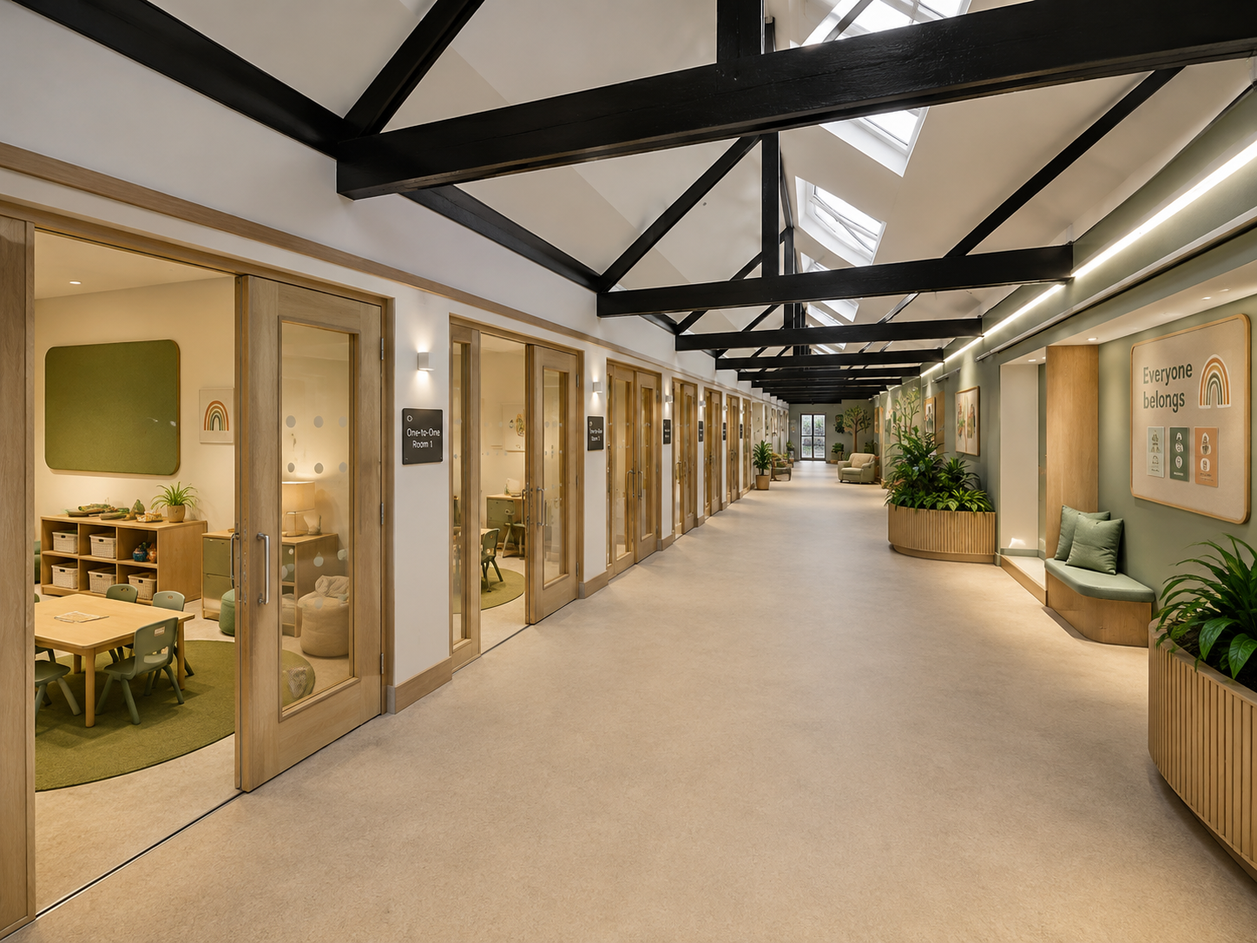
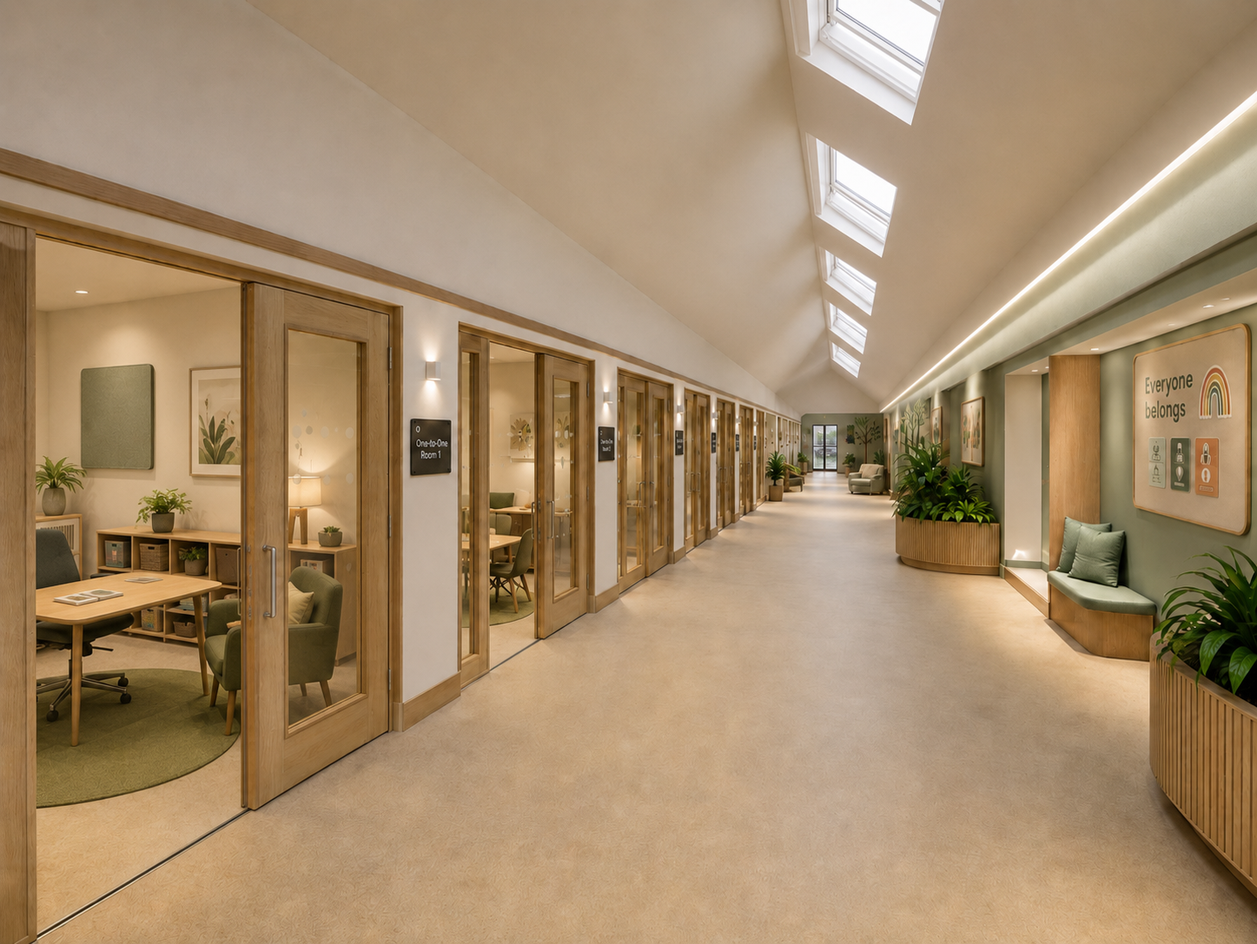
updates

diff --git a/properties/thorntonheath.html b/properties/thorntonheath.html
@@ -3,7 +3,7 @@
 <head>
     <meta charset="UTF-8">
     <meta name="viewport" content="width=device-width, initial-scale=1.0">
-    <title>21-29 Sandringham Road, Thornton Heath - Maypole SEN School Concept</title>
+    <title>21-29 Sandringham Road, Thornton Heath CR7 7AX - Maypole SEN School Concept</title>
     <link rel="icon" type="image/png" href="/favicon/curwenfavicon.png">
     <script src="https://cdn.tailwindcss.com"></script>
     <script src="https://unpkg.com/lucide@latest"></script>
@@ -61,13 +61,12 @@
             <div class="flex items-center space-x-4">
                 <img src="https://cdn.anthology.to/static/retailers/alt/curwen_group.png" class="h-8 md:h-10 w-auto" alt="Curwen Group" />
                 <div class="hidden md:block h-6 w-[1px] bg-neutral-200"></div>
-                <span class="hidden md:block text-[10px] tracking-[0.3em] uppercase font-bold text-slate-900">21-29 Sandringham Road, Thornton Heath</span>
+                <span class="hidden md:block text-[10px] tracking-[0.3em] uppercase font-bold text-slate-900">21-29 Sandringham Road, Thornton Heath CR7 7AX</span>
             </div>
 
             <div class="hidden xl:flex items-center space-x-6">
                 <button onclick="scrollToSection('hero')" class="text-[9px] uppercase tracking-[0.2em] font-bold text-slate-400 hover:text-[#B08D57] transition-colors">Home</button>
                 <button onclick="scrollToSection('opportunity')" class="text-[9px] uppercase tracking-[0.2em] font-bold text-slate-400 hover:text-[#B08D57] transition-colors">Summary</button>
-                <button onclick="scrollToSection('facts')" class="text-[9px] uppercase tracking-[0.2em] font-bold text-slate-400 hover:text-[#B08D57] transition-colors">Facts</button>
                 <button onclick="scrollToSection('location')" class="text-[9px] uppercase tracking-[0.2em] font-bold text-slate-400 hover:text-[#B08D57] transition-colors">Location</button>
                 <button onclick="scrollToSection('classrooms')" class="text-[9px] uppercase tracking-[0.2em] font-bold text-slate-400 hover:text-[#B08D57] transition-colors">1:1 Rooms</button>
                 <button onclick="scrollToSection('plans')" class="text-[9px] uppercase tracking-[0.2em] font-bold text-slate-400 hover:text-[#B08D57] transition-colors">Plans</button>
@@ -87,7 +86,6 @@
         <div id="mobile-menu" class="hidden fixed inset-0 z-[90] bg-[#0A1D37] text-white p-12 flex flex-col justify-center space-y-7">
             <button onclick="scrollToSection('hero')" class="text-2xl font-light tracking-widest text-left">Home</button>
             <button onclick="scrollToSection('opportunity')" class="text-2xl font-light tracking-widest text-left">Summary</button>
-            <button onclick="scrollToSection('facts')" class="text-2xl font-light tracking-widest text-left">Facts</button>
             <button onclick="scrollToSection('location')" class="text-2xl font-light tracking-widest text-left">Location</button>
             <button onclick="scrollToSection('classrooms')" class="text-2xl font-light tracking-widest text-left">1:1 Rooms</button>
             <button onclick="scrollToSection('plans')" class="text-2xl font-light tracking-widest text-left">Plans</button>
@@ -110,19 +108,19 @@
                         <p class="text-white text-[10px] md:text-[11px] tracking-[0.2em] font-bold uppercase mb-4">1:1 Specialist Education Model</p>
                         <div class="w-full h-[1.5px] bg-white/30 mb-4"></div>
                         <p class="text-white text-[10px] md:text-[11px] tracking-[0.15em] font-semibold uppercase leading-relaxed">
-                            Low-mix pupil movement<br/>secure staggered arrival strategy
+                            secure staggered arrival strategy
                         </p>
                     </div>
                 </div>
 
                 <div class="thornton-hero-copy relative md:absolute md:bottom-20 md:left-20 max-w-5xl px-6 pt-10 pb-10 md:px-0 md:pt-0 md:pb-0">
                     <div class="reveal">
-                        <p class="inline-block bg-[#0A1D37]/85 border border-white/20 text-[#B08D57] text-[10px] sm:text-[12px] md:text-sm tracking-[0.24em] sm:tracking-[0.45em] uppercase font-bold mb-4 px-4 py-2 rounded-sm shadow-lg backdrop-blur-sm">21-29 Sandringham Road, Thornton Heath</p>
+                        <p class="inline-block bg-[#0A1D37]/85 border border-white/20 text-[#B08D57] text-[10px] sm:text-[12px] md:text-sm tracking-[0.24em] sm:tracking-[0.45em] uppercase font-bold mb-4 px-4 py-2 rounded-sm shadow-lg backdrop-blur-sm">21-29 Sandringham Road, Thornton Heath CR7 7AX</p>
                         <h1 class="text-4xl md:text-7xl xl:text-8xl font-extralight text-white leading-none tracking-tighter uppercase mb-5 md:mb-6">
-                            21-29<br/>Sandringham Road
+                            21-29<br/>Sandringham Road<br/><span class="text-2xl md:text-4xl xl:text-5xl tracking-normal">CR7 7AX</span>
                         </h1>
                         <p class="text-white/70 text-sm md:text-lg font-light max-w-3xl mb-6 md:mb-8">
-                            A quiet concept pack showing how the building can support Maypole's one-to-one SEN model, with 25-30 potential 1:1 teaching rooms, controlled pupil movement and a secure staggered drop-off strategy.
+                            This report shows how the building can support Maypole's one-to-one SEN model, with upwards of 30 potential 1:1 teaching rooms, controlled pupil movement and a secure staggered drop-off strategy.
                         </p>
 
                         <div class="grid grid-cols-2 md:grid-cols-4 gap-2 sm:gap-3 max-w-5xl mb-6 md:mb-8">
@@ -131,11 +129,11 @@
                                 <p class="text-[8px] sm:text-[9px] uppercase tracking-[0.16em] sm:tracking-[0.25em] text-white/45 font-bold mt-1">Sq Ft GIA</p>
                             </div>
                             <div class="bg-[#0A1D37]/80 border border-white/10 backdrop-blur-md rounded-sm px-3 py-3 sm:px-6 sm:py-5">
-                                <p class="text-xl sm:text-2xl font-bold text-white">Freehold</p>
+                                <p class="text-xl sm:text-2xl font-bold text-white">Freehold / Leasehold</p>
                                 <p class="text-[8px] sm:text-[9px] uppercase tracking-[0.16em] sm:tracking-[0.25em] text-white/45 font-bold mt-1">Interest</p>
                             </div>
                             <div class="bg-[#0A1D37]/80 border border-white/10 backdrop-blur-md rounded-sm px-3 py-3 sm:px-6 sm:py-5">
-                                <p class="text-xl sm:text-2xl font-bold text-white">25-30</p>
+                                <p class="text-xl sm:text-2xl font-bold text-white">30+</p>
                                 <p class="text-[8px] sm:text-[9px] uppercase tracking-[0.16em] sm:tracking-[0.25em] text-white/45 font-bold mt-1">1:1 Rooms</p>
                             </div>
                             <div class="bg-[#0A1D37]/80 border border-white/10 backdrop-blur-md rounded-sm px-3 py-3 sm:px-6 sm:py-5">
@@ -155,14 +153,14 @@
                         <div class="reveal">
                             <h2 class="text-[#B08D57] text-[10px] tracking-[0.4em] uppercase font-bold mb-10">01 &mdash; Maypole Concept Summary</h2>
                             <h3 class="text-3xl md:text-5xl font-light text-slate-900 leading-tight mb-8">
-                                A building strategy shaped around one-to-one teaching, low pupil mixing and calm arrival.
+                                A building strategy shaped around one-to-one teaching, with versitile accomodation to provide a modern, comfortable and secure environment.
                             </h3>
                             <div class="space-y-6 text-slate-600 font-light leading-relaxed text-lg">
                                 <p>
-                                    It is intended to show how 21-29 Sandringham Road could be planned around a specialist one-to-one SEN model where pupils have individual teaching spaces and limited mixing with other pupils.
+                                    It is intended to show how 21-29 Sandringham Road, Thornton Heath CR7 7AX could be planned around a specialist one-to-one SEN model where pupils have individual teaching spaces and controlled mixing with other pupils.
                                 </p>
                                 <p>
-                                    The core design idea is simple: use the scale of the former bakery building to create a controlled, carefully managed education environment with 25-30 potential one-to-one classrooms, supporting therapy / staff spaces and a secure arrival sequence.
+                                    The core design idea is simple: use the scale of the former bakery building to create a controlled, carefully managed education environment with 30 + potential 1:1 classrooms, supporting therapy / staff spaces and a secure arrival sequence.
                                 </p>
 
                                 <div class="grid grid-cols-1 sm:grid-cols-3 gap-4 pt-4">
@@ -171,8 +169,8 @@
                                         <p class="text-[9px] uppercase tracking-widest text-slate-400 font-bold">Teaching Model</p>
                                     </div>
                                     <div class="bg-white border border-neutral-100 shadow-sm p-6 rounded-sm">
-                                        <p class="text-3xl font-light text-slate-900 mb-2">25-30</p>
-                                        <p class="text-[9px] uppercase tracking-widest text-slate-400 font-bold">Potential Classrooms</p>
+                                        <p class="text-3xl font-light text-slate-900 mb-2">30 +</p>
+                                        <p class="text-[9px] uppercase tracking-widest text-slate-400 font-bold">Potential 1:1 Classrooms</p>
                                     </div>
                                     <div class="bg-white border border-neutral-100 shadow-sm p-6 rounded-sm">
                                         <p class="text-3xl font-light text-slate-900 mb-2">F1</p>
@@ -190,12 +188,12 @@
                                 <div class="overflow-x-auto">
                                     <table class="w-full text-sm text-left border-collapse">
                                         <tbody class="text-slate-800">
-                                            <tr class="border-b border-neutral-100"><td class="py-4 text-[9px] uppercase tracking-widest text-slate-400 font-bold">Address</td><td class="py-4 text-sm font-bold text-slate-900">21-29 Sandringham Road, Thornton Heath</td></tr>
+                                            <tr class="border-b border-neutral-100"><td class="py-4 text-[9px] uppercase tracking-widest text-slate-400 font-bold">Address</td><td class="py-4 text-sm font-bold text-slate-900">21-29 Sandringham Road, Thornton Heath CR7 7AX</td></tr>
                                             <tr class="border-b border-neutral-100"><td class="py-4 text-[9px] uppercase tracking-widest text-slate-400 font-bold">Area</td><td class="py-4 text-sm font-bold text-slate-900">1,893.55 sq m / 20,382 sq ft GIA</td></tr>
                                             <tr class="border-b border-neutral-100"><td class="py-4 text-[9px] uppercase tracking-widest text-slate-400 font-bold">Maypole Model</td><td class="py-4 text-sm font-bold text-slate-900">One pupil / one teacher classrooms</td></tr>
                                             <tr class="border-b border-neutral-100"><td class="py-4 text-[9px] uppercase tracking-widest text-slate-400 font-bold">Pupil Movement</td><td class="py-4 text-sm font-bold text-slate-900">Low-mix, controlled transitions</td></tr>
                                             <tr class="border-b border-neutral-100"><td class="py-4 text-[9px] uppercase tracking-widest text-slate-400 font-bold">Arrival</td><td class="py-4 text-sm font-bold text-slate-900">Secure staggered drop-off concept</td></tr>
-                                            <tr><td class="py-4 text-[9px] uppercase tracking-widest text-slate-400 font-bold">Planning Route</td><td class="py-4 text-sm font-bold text-slate-900">F1 school use to be delivered</td></tr>
+                                            <tr><td class="py-4 text-[9px] uppercase tracking-widest text-slate-400 font-bold">Planning Route</td><td class="py-4 text-sm font-bold text-slate-900">F1 school use to be delivered along </td></tr>
                                         </tbody>
                                     </table>
                                 </div>
@@ -205,55 +203,16 @@
                 </div>
             </section>
 
-            <!-- SECTION: Building Facts -->
-            <section id="facts" class="bg-[#0A1D37] py-24 px-6 md:px-20 text-white overflow-hidden">
-                <div class="max-w-7xl mx-auto grid grid-cols-1 lg:grid-cols-2 gap-20 items-center">
-                    <div class="reveal">
-                        <h2 class="text-[#B08D57] text-[10px] tracking-[0.4em] uppercase font-bold mb-10">02 &mdash; Key Building Facts</h2>
-                        <h3 class="text-3xl md:text-5xl font-light mb-10 leading-tight">The principal building and school-planning facts in one place.</h3>
-                        <p class="text-white/60 font-light leading-relaxed text-lg mb-10">
-                            The asset is being controlled through Curwen Group's relationship with the appointed agent, allowing the design and planning conversation to be managed privately around a clear F1 school strategy for Maypole.
-                        </p>
-                        <div class="grid grid-cols-1 sm:grid-cols-2 gap-8">
-                            <div class="border-l border-[#B08D57] pl-6 py-2"><p class="text-[9px] uppercase tracking-widest text-[#B08D57] font-bold mb-2">Address</p><p class="text-xl font-light">21-29 Sandringham Road</p></div>
-                            <div class="border-l border-[#B08D57] pl-6 py-2"><p class="text-[9px] uppercase tracking-widest text-[#B08D57] font-bold mb-2">Local Authority</p><p class="text-xl font-light">Croydon</p></div>
-                            <div class="border-l border-[#B08D57] pl-6 py-2"><p class="text-[9px] uppercase tracking-widest text-[#B08D57] font-bold mb-2">Gross Internal Area</p><p class="text-xl font-light">20,382 sq ft</p></div>
-                            <div class="border-l border-[#B08D57] pl-6 py-2"><p class="text-[9px] uppercase tracking-widest text-[#B08D57] font-bold mb-2">Metric Area</p><p class="text-xl font-light">1,893.55 sq m</p></div>
-                            <div class="border-l border-[#B08D57] pl-6 py-2"><p class="text-[9px] uppercase tracking-widest text-[#B08D57] font-bold mb-2">Tenure</p><p class="text-xl font-light">Freehold</p></div>
-                            <div class="border-l border-[#B08D57] pl-6 py-2"><p class="text-[9px] uppercase tracking-widest text-[#B08D57] font-bold mb-2">Planning Strategy</p><p class="text-xl font-light">F1 school use</p></div>
-                        </div>
-                    </div>
-
-                    <div class="reveal delay-200 space-y-6">
-                        <figure class="bg-white/5 border border-white/10 rounded-sm overflow-hidden shadow-2xl">
-                            <img src="../images/thornton/ExistingFront.jpeg" class="w-full h-auto object-cover" alt="Existing Thornton Heath front elevation" />
-                            <figcaption class="px-6 py-4 text-[10px] uppercase tracking-widest text-white/35 font-bold">Existing front elevation for Thornton Heath.</figcaption>
-                        </figure>
-                        <figure class="bg-white/5 border border-white/10 rounded-sm overflow-hidden shadow-2xl">
-                            <img src="../images/thornton/FrontCGI.png" class="w-full h-auto object-cover" alt="Proposed Thornton Heath SEN school frontage CGI" />
-                            <figcaption class="px-6 py-4 text-[10px] uppercase tracking-widest text-white/35 font-bold">Proposed front CGI showing the SEN school arrival presentation.</figcaption>
-                        </figure>
-                    </div>
-                </div>
-
-                <div class="reveal mt-16 max-w-7xl mx-auto bg-white/5 border border-white/10 rounded-sm p-8">
-                    <p class="text-[10px] uppercase tracking-[0.35em] font-bold text-[#B08D57] mb-4">Area note</p>
-                    <p class="text-sm font-light text-white/55 leading-relaxed">
-                        Source particulars refer to approximately 20,100 sq ft over ground and first floors in the featured points, and approximately 1,893.55 sq m / 20,382 sq ft GIA in the main description. This brochure uses the more precise GIA figure and keeps the focus on the proposed F1 school planning route.
-                    </p>
-                </div>
-            </section>
-
             <!-- SECTION: Location -->
             <section id="location" class="py-24 px-6 md:px-20 max-w-7xl mx-auto">
                 <div class="grid grid-cols-1 lg:grid-cols-12 gap-16 items-center">
                     <div class="lg:col-span-5">
                         <div class="reveal">
-                            <h2 class="text-[#B08D57] text-[10px] tracking-[0.4em] uppercase font-bold mb-10">03 &mdash; Location</h2>
+                            <h2 class="text-[#B08D57] text-[10px] tracking-[0.4em] uppercase font-bold mb-10">02 &mdash; Location</h2>
                             <h3 class="text-3xl md:text-5xl font-light text-slate-900 leading-tight mb-8">An accessible South London location close to amenities, homes and transport infrastructure.</h3>
                             <div class="space-y-6 text-slate-600 font-light leading-relaxed text-lg">
                                 <p>
-                                    Situated on Sandringham Road, the property occupies a convenient Thornton Heath position within easy reach of the area's established local catchment. Thornton Heath town centre is close by, providing day-to-day amenities, shops, cafes and services.
+                                    Situated at 21-29 Sandringham Road, Thornton Heath CR7 7AX, the property occupies a convenient position within easy reach of the area's established local catchment. Thornton Heath town centre is close by, providing day-to-day amenities, shops, cafes and services.
                                 </p>
                                 <p>
                                     The location benefits from regular rail services from Thornton Heath station into Central London and Croydon, with Selhurst station also within approximately 1 km. Nearby bus routes connect Thornton Heath with Croydon, Norbury, Streatham and the wider surrounding area.
@@ -285,8 +244,8 @@
                                 <p class="text-slate-500 font-light leading-relaxed">Road access extends towards Croydon town centre, the A23 London-Brighton Road and the wider South London network.</p>
                             </article>
                             <figure class="sm:col-span-2 bg-white border border-neutral-100 rounded-sm overflow-hidden shadow-sm">
-                                <img src="../images/thornton/LocationMap.jpeg" class="w-full h-auto object-contain bg-white" alt="Location map for 21-29 Sandringham Road, Thornton Heath" />
-                                <figcaption class="px-6 py-4 text-[10px] uppercase tracking-widest text-slate-400 font-bold">Location map: 21-29 Sandringham Road, Thornton Heath.</figcaption>
+                                <img src="../images/thornton/LocationMap.jpeg" class="w-full h-auto object-contain bg-white" alt="Location map for 21-29 Sandringham Road, Thornton Heath CR7 7AX" />
+                                <figcaption class="px-6 py-4 text-[10px] uppercase tracking-widest text-slate-400 font-bold">Location map: 21-29 Sandringham Road, Thornton Heath CR7 7AX.</figcaption>
                             </figure>
                         </div>
                     </div>
@@ -297,18 +256,18 @@
             <section id="classrooms" class="dark-gradient py-24 px-6 md:px-20 text-white overflow-hidden">
                 <div class="max-w-7xl mx-auto grid grid-cols-1 lg:grid-cols-2 gap-20 items-center">
                     <div class="reveal">
-                        <h2 class="text-[#B08D57] text-[10px] tracking-[0.4em] uppercase font-bold mb-10">04 &mdash; One-to-One Classroom Model</h2>
+                        <h2 class="text-[#B08D57] text-[10px] tracking-[0.4em] uppercase font-bold mb-10">03 &mdash; One-to-One Classroom Model</h2>
                         <h3 class="text-3xl md:text-5xl font-light mb-10 leading-tight">A room strategy for pupils who need individual space and minimal peer mixing.</h3>
                         <div class="space-y-6 text-white/60 font-light leading-relaxed text-lg">
                             <p>
-                                Maypole's model requires a different type of school environment from a conventional classroom-led setting. The building can be reviewed around 25-30 one-to-one teaching rooms, each supporting one pupil and one teacher in a calm, predictable space.
+                                Maypole's model requires a different type of school environment from a conventional classroom-led setting. The building can be reviewed around 30 + potential 1:1 classrooms, each supporting one pupil and one teacher in a calm, predictable space.
                             </p>
                             <p>
                                 The wider floorplate allows teaching rooms to sit alongside therapy, decompression, staff, welfare and support spaces, reducing the need for pupils to mix or move through busy shared areas during the day.
                             </p>
                         </div>
                         <div class="grid grid-cols-1 sm:grid-cols-2 gap-5 mt-10">
-                            <div class="border-l border-[#B08D57] pl-6 py-2"><p class="text-[9px] uppercase tracking-widest text-[#B08D57] font-bold mb-2">Classroom Count</p><p class="text-lg font-light">25-30 potential one-to-one rooms</p></div>
+                            <div class="border-l border-[#B08D57] pl-6 py-2"><p class="text-[9px] uppercase tracking-widest text-[#B08D57] font-bold mb-2">Classroom Count</p><p class="text-lg font-light">30 + potential 1:1 classrooms</p></div>
                             <div class="border-l border-[#B08D57] pl-6 py-2"><p class="text-[9px] uppercase tracking-widest text-[#B08D57] font-bold mb-2">Pupil Model</p><p class="text-lg font-light">One pupil, one teacher, low-mix operation</p></div>
                             <div class="border-l border-[#B08D57] pl-6 py-2"><p class="text-[9px] uppercase tracking-widest text-[#B08D57] font-bold mb-2">First Floor Windows</p><p class="text-lg font-light">Front elevation supports multiple naturally lit rooms</p></div>
                             <div class="border-l border-[#B08D57] pl-6 py-2"><p class="text-[9px] uppercase tracking-widest text-[#B08D57] font-bold mb-2">Support Rooms</p><p class="text-lg font-light">Therapy, calm, staff and meeting spaces</p></div>
@@ -332,7 +291,7 @@
             <section id="plans" class="bg-[#FAF9F6] py-24 px-6 md:px-20 border-y border-neutral-100">
                 <div class="max-w-7xl mx-auto">
                     <div class="reveal text-center mb-14">
-                        <h2 class="text-[#B08D57] text-[10px] tracking-[0.4em] uppercase font-bold mb-6">05 &mdash; Conceptual Floor Plans</h2>
+                        <h2 class="text-[#B08D57] text-[10px] tracking-[0.4em] uppercase font-bold mb-6">04 &mdash; Conceptual Floor Plans</h2>
                         <h3 class="text-3xl md:text-5xl font-light text-slate-900 leading-tight mb-4">An initial test fit showing how the building could be arranged around Maypole's one-to-one model.</h3>
                         <p class="text-slate-500 font-light text-lg max-w-4xl mx-auto leading-relaxed">
                             These plans are conceptual only at this stage. They are included to show one possible approach and would be developed in accordance with Maypole's operational, safeguarding and education requirements.
@@ -398,7 +357,7 @@
 
                     <div class="lg:col-span-5">
                         <div class="reveal delay-200">
-                            <h2 class="text-[#B08D57] text-[10px] tracking-[0.4em] uppercase font-bold mb-10">06 &mdash; Secure Staggered Drop-Off</h2>
+                            <h2 class="text-[#B08D57] text-[10px] tracking-[0.4em] uppercase font-bold mb-10">05 &mdash; Secure Staggered Drop-Off</h2>
                             <h3 class="text-3xl md:text-5xl font-light text-slate-900 leading-tight mb-8">
                                 A controlled arrival sequence designed around privacy, safeguarding and reduced anxiety.
                             </h3>
@@ -426,7 +385,7 @@
             <section id="conversion" class="bg-white py-24 px-6 md:px-20 border-y border-neutral-100">
                 <div class="max-w-7xl mx-auto">
                     <div class="reveal text-center mb-16">
-                        <h2 class="text-[#B08D57] text-[10px] tracking-[0.4em] uppercase font-bold mb-6">07 &mdash; Supporting Education Spaces</h2>
+                        <h2 class="text-[#B08D57] text-[10px] tracking-[0.4em] uppercase font-bold mb-6">06 &mdash; Supporting Education Spaces</h2>
                         <h3 class="text-3xl md:text-5xl font-light text-slate-900 leading-tight mb-4">CGI views showing how the building could feel as a specialist school.</h3>
                         <p class="text-slate-500 font-light text-lg max-w-4xl mx-auto leading-relaxed">
                             These images are not repeated as a general gallery. Each CGI supports a specific part of the Maypole brief: reception, staff / therapy space, practical life-skills provision and wider building presentation.
@@ -458,7 +417,7 @@
             <section id="building" class="bg-white py-24 px-6 md:px-20 border-y border-neutral-100">
                 <div class="max-w-7xl mx-auto">
                     <div class="reveal text-center mb-16">
-                        <h2 class="text-[#B08D57] text-[10px] tracking-[0.4em] uppercase font-bold mb-6">08 &mdash; Existing Building</h2>
+                        <h2 class="text-[#B08D57] text-[10px] tracking-[0.4em] uppercase font-bold mb-6">07 &mdash; Existing Building</h2>
                         <h3 class="text-3xl md:text-5xl font-light text-slate-900 leading-tight mb-4">A former bakery facility arranged over two floors.</h3>
                         <p class="text-slate-500 font-light text-lg max-w-4xl mx-auto leading-relaxed">
                             The building has been configured with large preparation areas, stores, assembly space, staff accommodation and integral loading accommodation to the front.
@@ -513,7 +472,7 @@
                 <div class="grid grid-cols-1 lg:grid-cols-12 gap-16 items-center">
                     <div class="lg:col-span-7">
                         <div class="reveal">
-                            <h2 class="text-[#B08D57] text-[10px] tracking-[0.4em] uppercase font-bold mb-10">09 &mdash; Delivery Control</h2>
+                            <h2 class="text-[#B08D57] text-[10px] tracking-[0.4em] uppercase font-bold mb-10">08 &mdash; Delivery Control</h2>
                             <h3 class="text-3xl md:text-5xl font-light text-slate-900 leading-tight mb-8">
                                 A coordinated route for progressing the property around Maypole's requirements.
                             </h3>
